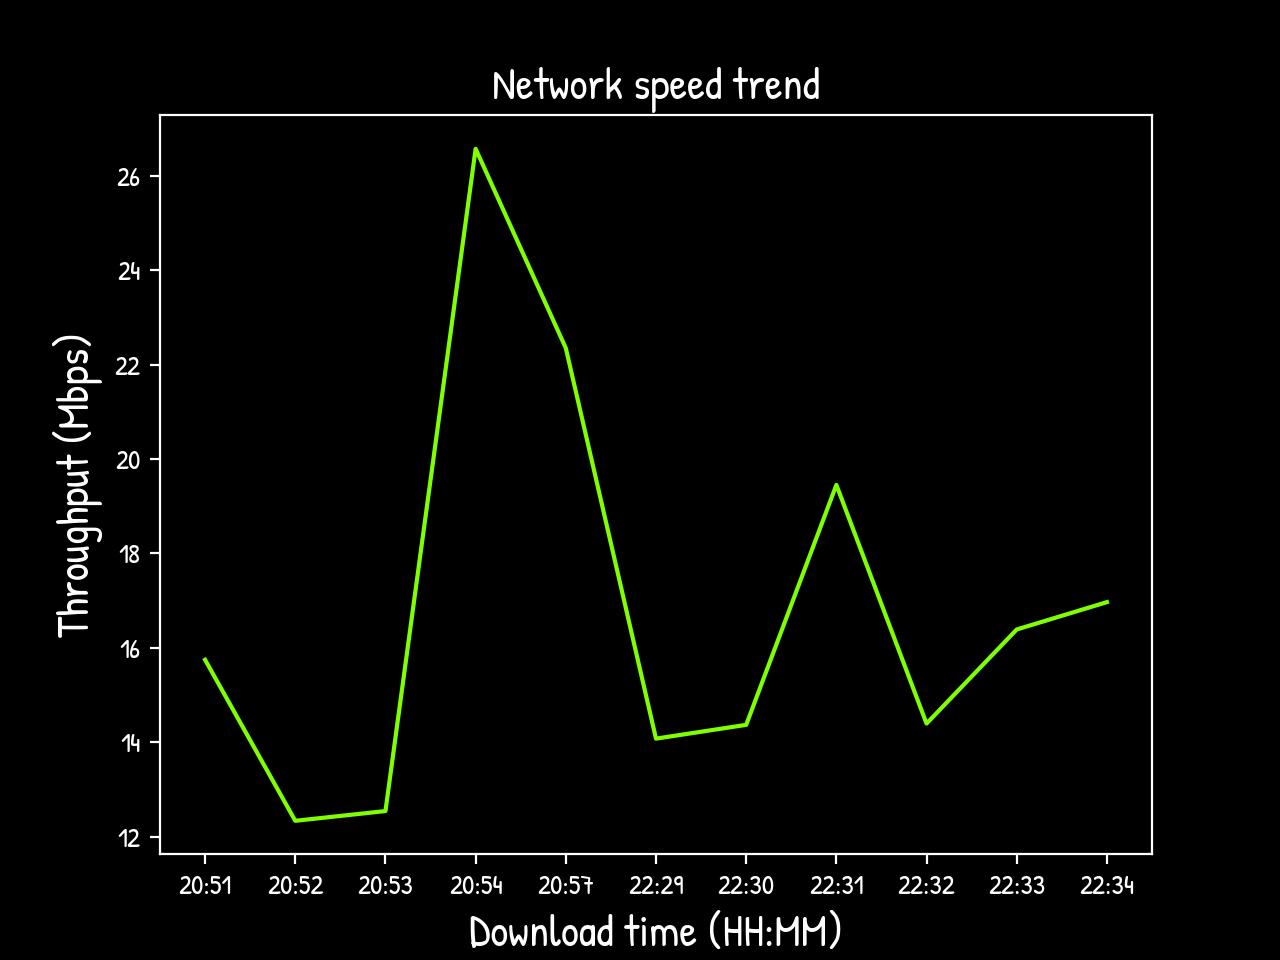
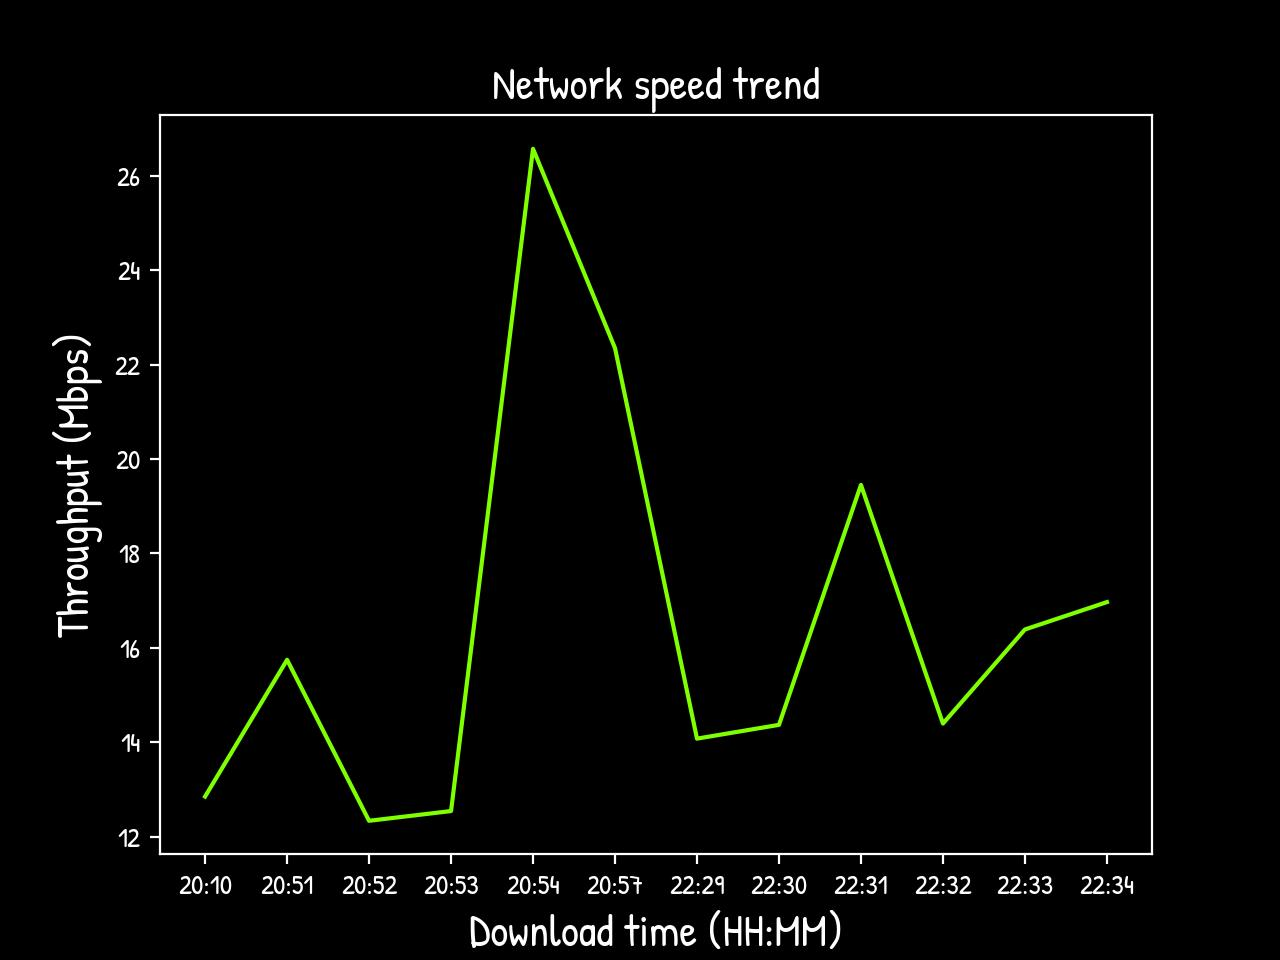
fixed analysis

diff --git a/main.py b/main.py
@@ -1,40 +1,41 @@
 """
 Call this python file with arguments
 
-python main.py --url <download_url> --time <download_interval_minutes> --file <filepath>
+python main.py --url <download_url> --time <download_interval_minutes>
+Other options: --file <filepath> --report <reportpath> --chart <chartpath>
 """
 
 def main():
     import argparse, os
-    from src import dl_thread, charts
+    from src import dl_thread, analysis, charts
 
     # Obtain the cli args
     parser = argparse.ArgumentParser()
     parser.add_argument("--url", type=str, required=False, default="https://stpes2ug24cs784388567931.file.core.windows.net/6c48981d-f8aa-4fb3-b21c-d5d503f50a55-code/peppa1.mp4?sp=r&st=2026-03-22T15:29:34Z&se=2026-04-30T15:45:00Z&sv=2024-11-04&sig=jn47d8f4kmtWLC5P4MdoE8WFRrN7dDbPnqy3eH4jAN0%3D&sr=f")
     parser.add_argument("--time", type=int, required=False, default=1)
     parser.add_argument("--file", type=str, required=False, default="data/data.csv")
+    parser.add_argument("--report", type=str, required=False, default="data/report.json")
     parser.add_argument("--chart", type=str, required=False, default="data/chart.jpg")
     args = parser.parse_args()
 
     download_url : str = args.url
     download_interval_minutes : int = args.time
     filepath : str = os.path.abspath(args.file)
+    reportpath : str = os.path.abspath(args.report)
     chartpath : str = os.path.abspath(args.chart)
-    if not os.path.exists(filepath) : return print("Invalid file path, try again.")
-    if not os.path.exists(chartpath) : return print("Invalid chart path, try again.")
-    # print(download_url, download_interval_minutes, filepath, chartpath)
-
-    print("Network Traffic Analyzer")
-    print("Hello from main module :D")
 
 
     # Run the thread that will do the download
+    print("\nNetwork Traffic Analyzer :D")
+    print("Enter 'q' at any time to stop\n")
+
     dl_thread.start(download_url, download_interval_minutes, filepath)
-    input("Enter 'q' at any time to stop\n")
+    input()
     dl_thread.stop()
 
 
-    # TODO: Perform statistics and generate chart here
+    # Perform statistics and generate chart here
+    analysis.analyze(filepath, reportpath)
     charts.generate(filepath, chartpath)
 
 

diff --git a/src/charts.py b/src/charts.py
@@ -7,19 +7,15 @@ def generate (filepath : str, chartpath : str) :
     data = pandas.read_csv(filepath, delimiter=",")
     data = data[ data["result"] != "failed" ]       # We filter out failed downloads
 
-    # When actually running this project, we may not actually be waiting for a whole hour
-    # to pass for the download to happen. We may be doing it every few minutes instead.
-    # So, there will be multiple rows that have the same data[hour_of_day].
-    # It would not make sense to plot a graph with multiple data points in the same hour.
-    # That will create a vertical straight line.
-    # I instead use the hour and minute (extracted from data[timestamp] below)
-    x_axis = data["timestamp"].map(lambda time : ":".join(time.split("T")[1].split(":")[:2]))
+    # Use HH:MM on x-axis
+    data["x-axis"] = data["timestamp"].map(lambda time : ":".join(time.split("T")[1].split(":")[:2]))
+    data = data.sort_values(by=["x-axis"])
 
     font_path = "assets/PatrickHand-Regular.ttf"
     font_manager.fontManager.addfont(path=font_path)
     chart.rcParams["font.family"] = font_manager.FontProperties(fname=font_path, weight="bold", size="xx-large").get_name()
     chart.style.use("dark_background")
-    chart.plot(x_axis, data["elapsed_transfer_s"], color="chartreuse")
+    chart.plot(data["x-axis"], data["elapsed_transfer_s"], color="chartreuse")
     chart.title("Network speed trend", fontsize=16)
     chart.xlabel("Download time (HH:MM)", fontsize=16)
     chart.ylabel("Throughput (Mbps)", fontsize=16)

diff --git a/src/analysis.py b/src/analysis.py
@@ -1,17 +1,11 @@
-
-
-
 """
 Loads recorded download data from the `data/` directory, performs statistical
 analysis on throughput values (mean, median, mode, std dev), identifies the
 busiest hour (minimum throughput), and prepares results for visualization/reporting.
 """
 
-import os
+import json
 import pandas as pd
-
-BASE_DIR = os.path.dirname(os.path.dirname(__file__))
-DATA_PATH = os.path.join(BASE_DIR, "data", "test_set1.csv")
 
 THROUGHPUT_COL = "throughput_mbps"
 HOUR_COL       = "hour_of_day"
@@ -27,7 +21,6 @@ def load_data(path: str) -> pd.DataFrame:
 def analyze_throughput(df: pd.DataFrame) -> dict:
     throughput = df[THROUGHPUT_COL]
     stats = throughput.agg(["mean", "median", "min", "max", "std"])
-
     return {
         "mean":         stats["mean"],
         "median":       stats["median"],
@@ -52,7 +45,19 @@ def print_report(stats: dict) -> None:
     ]))
 
 
-if __name__ == "__main__":
-    df = load_data(DATA_PATH)
+def save_report (stats : dict, reportpath : str) -> None :
+    reportfile = open(reportpath, "w")
+    for key in stats.keys() :
+        stats[key] = int(stats[key])
+    json.dump(stats, reportfile, indent=4)
+    reportfile.flush()
+    reportfile.close()
+    print("\nReport saved")
+
+
+def analyze (filepath : str, reportpath : str) :
+    df = load_data(filepath)
     stats = analyze_throughput(df)
     print_report(stats)
+    save_report(stats, reportpath)
+

diff --git a/src/dl_thread.py b/src/dl_thread.py
@@ -16,7 +16,7 @@ scheduler_thread_stopped = threading.Event()
 
 def run_download (url : str, file : str, interval: int, next_time : int) :
     global nextrun
-    print("Downloading at time", time.localtime().tm_hour)
+    print("Downloading at hour", time.localtime().tm_hour)
 
     if not scheduler_thread_stopped.is_set():
         next_time += interval * 60
